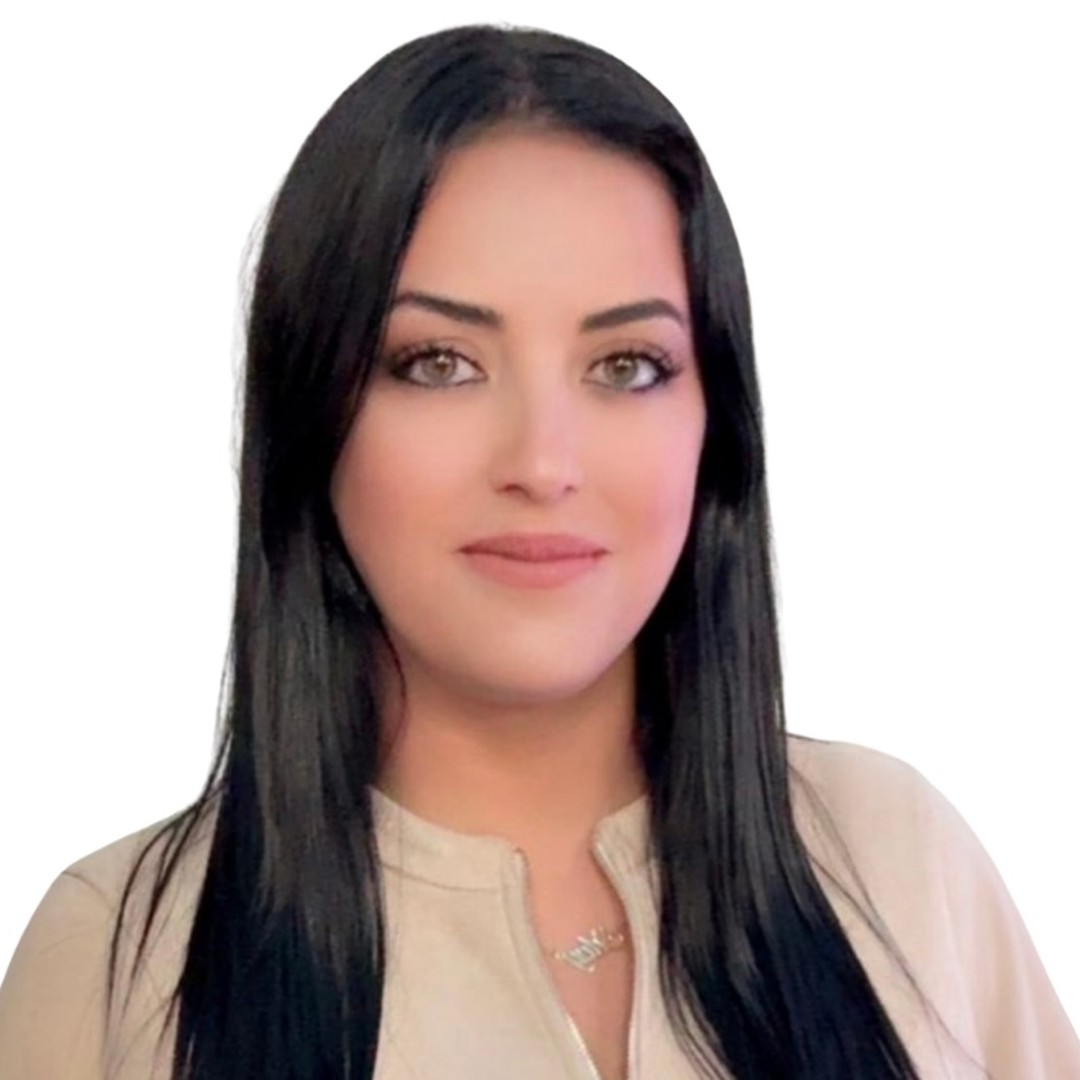
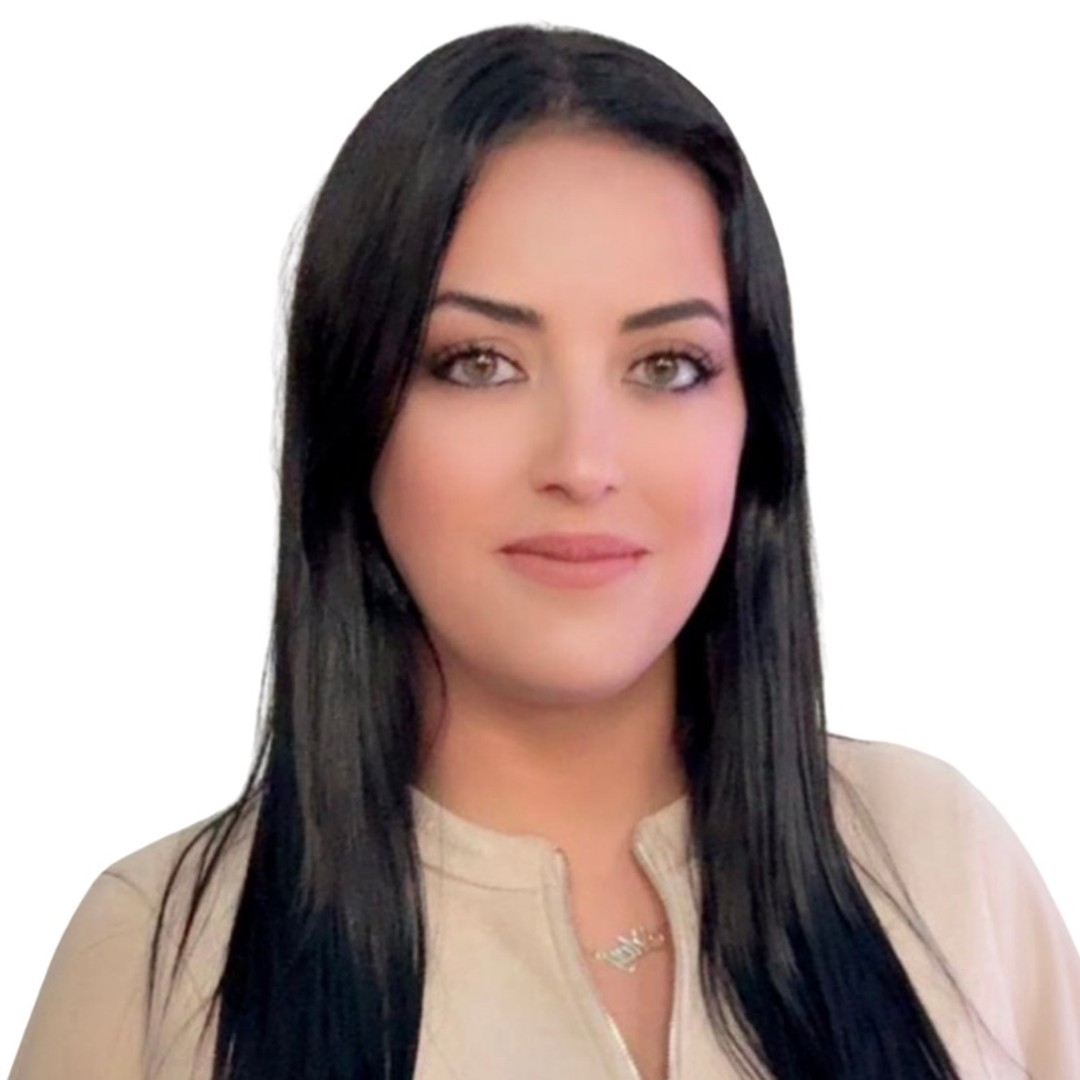
Shift Anna Shakhkulyan's photo slightly to the right
Claude-Session: https://claude.ai/code/session_01YKD4RRoCviiFx7SuyauBLX

diff --git a/team.html b/team.html
@@ -252,7 +252,7 @@
           <a class="more" href="adlea-specialist-bios.html#arpi-asatryan">Learn more &#8594;</a>
         </div>
         <div class="team-card">
-          <div class="team-photo"><img src="assets/anna-shakhkulyan.jpg" alt="Anna Shakhkulyan"></div>
+          <div class="team-photo"><img src="assets/anna-shakhkulyan.jpg?v=2" alt="Anna Shakhkulyan"></div>
           <h3>Anna Shakhkulyan</h3>
           <p class="role">Armenian Language and Culture Specialist</p>
           <a class="more" href="adlea-specialist-bios.html#anna-shakhkulyan">Learn more &#8594;</a>

diff --git a/adlea-specialist-bios.html b/adlea-specialist-bios.html
@@ -283,7 +283,7 @@
       </div>
 
       <div id="anna-shakhkulyan" class="bio-section">
-        <div class="bio-photo"><img src="assets/anna-shakhkulyan.jpg" alt="Anna Shakhkulyan"></div>
+        <div class="bio-photo"><img src="assets/anna-shakhkulyan.jpg?v=2" alt="Anna Shakhkulyan"></div>
         <div class="bio-text">
           <span class="eyebrow">Specialist Team</span>
           <h2>Anna Shakhkulyan</h2>
